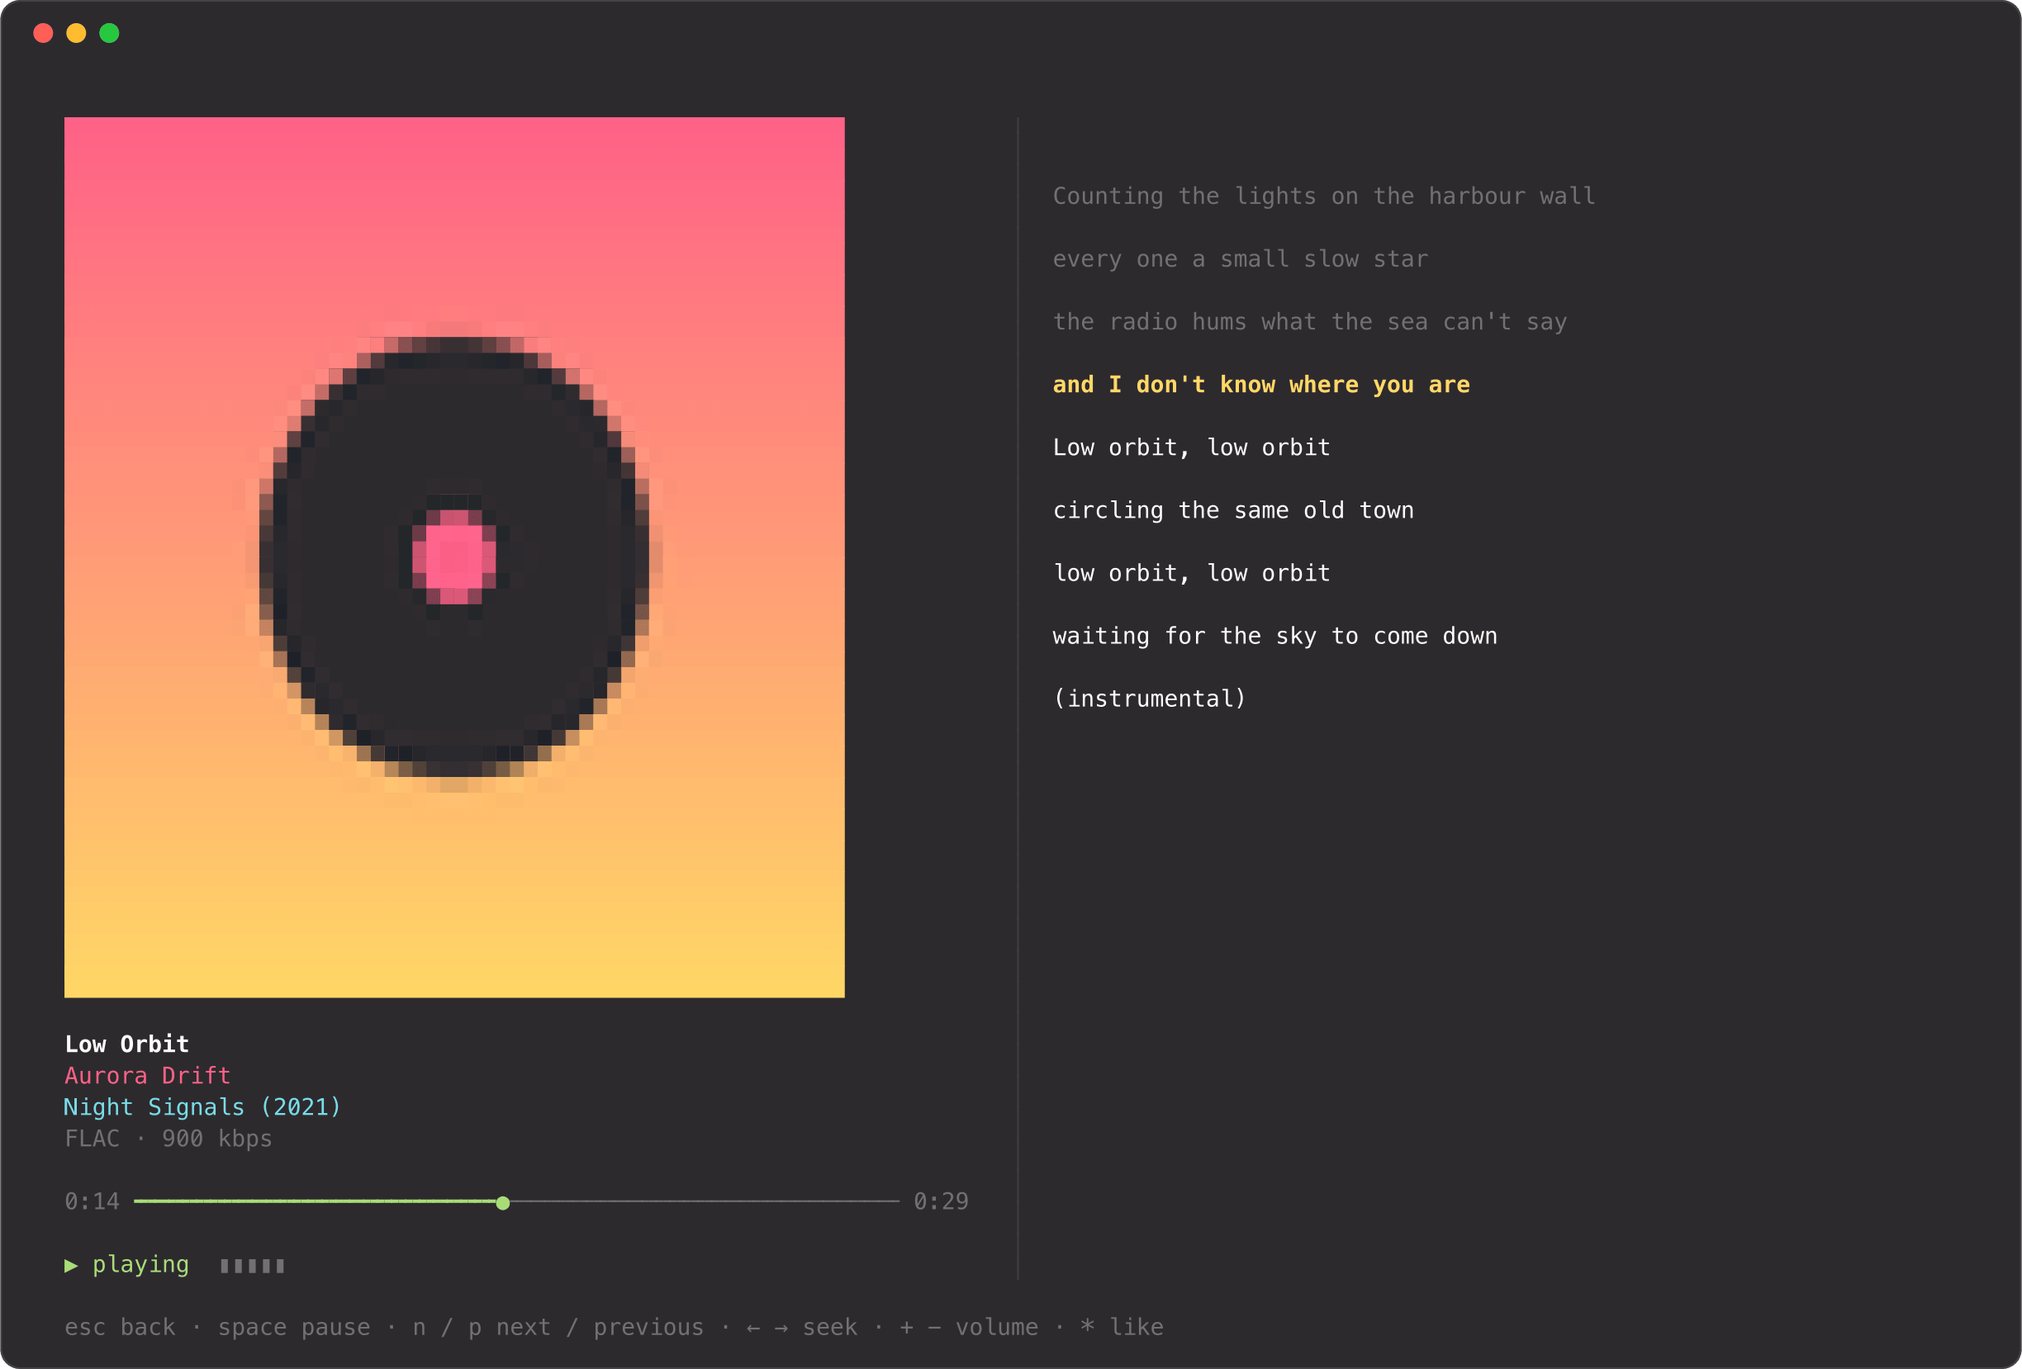
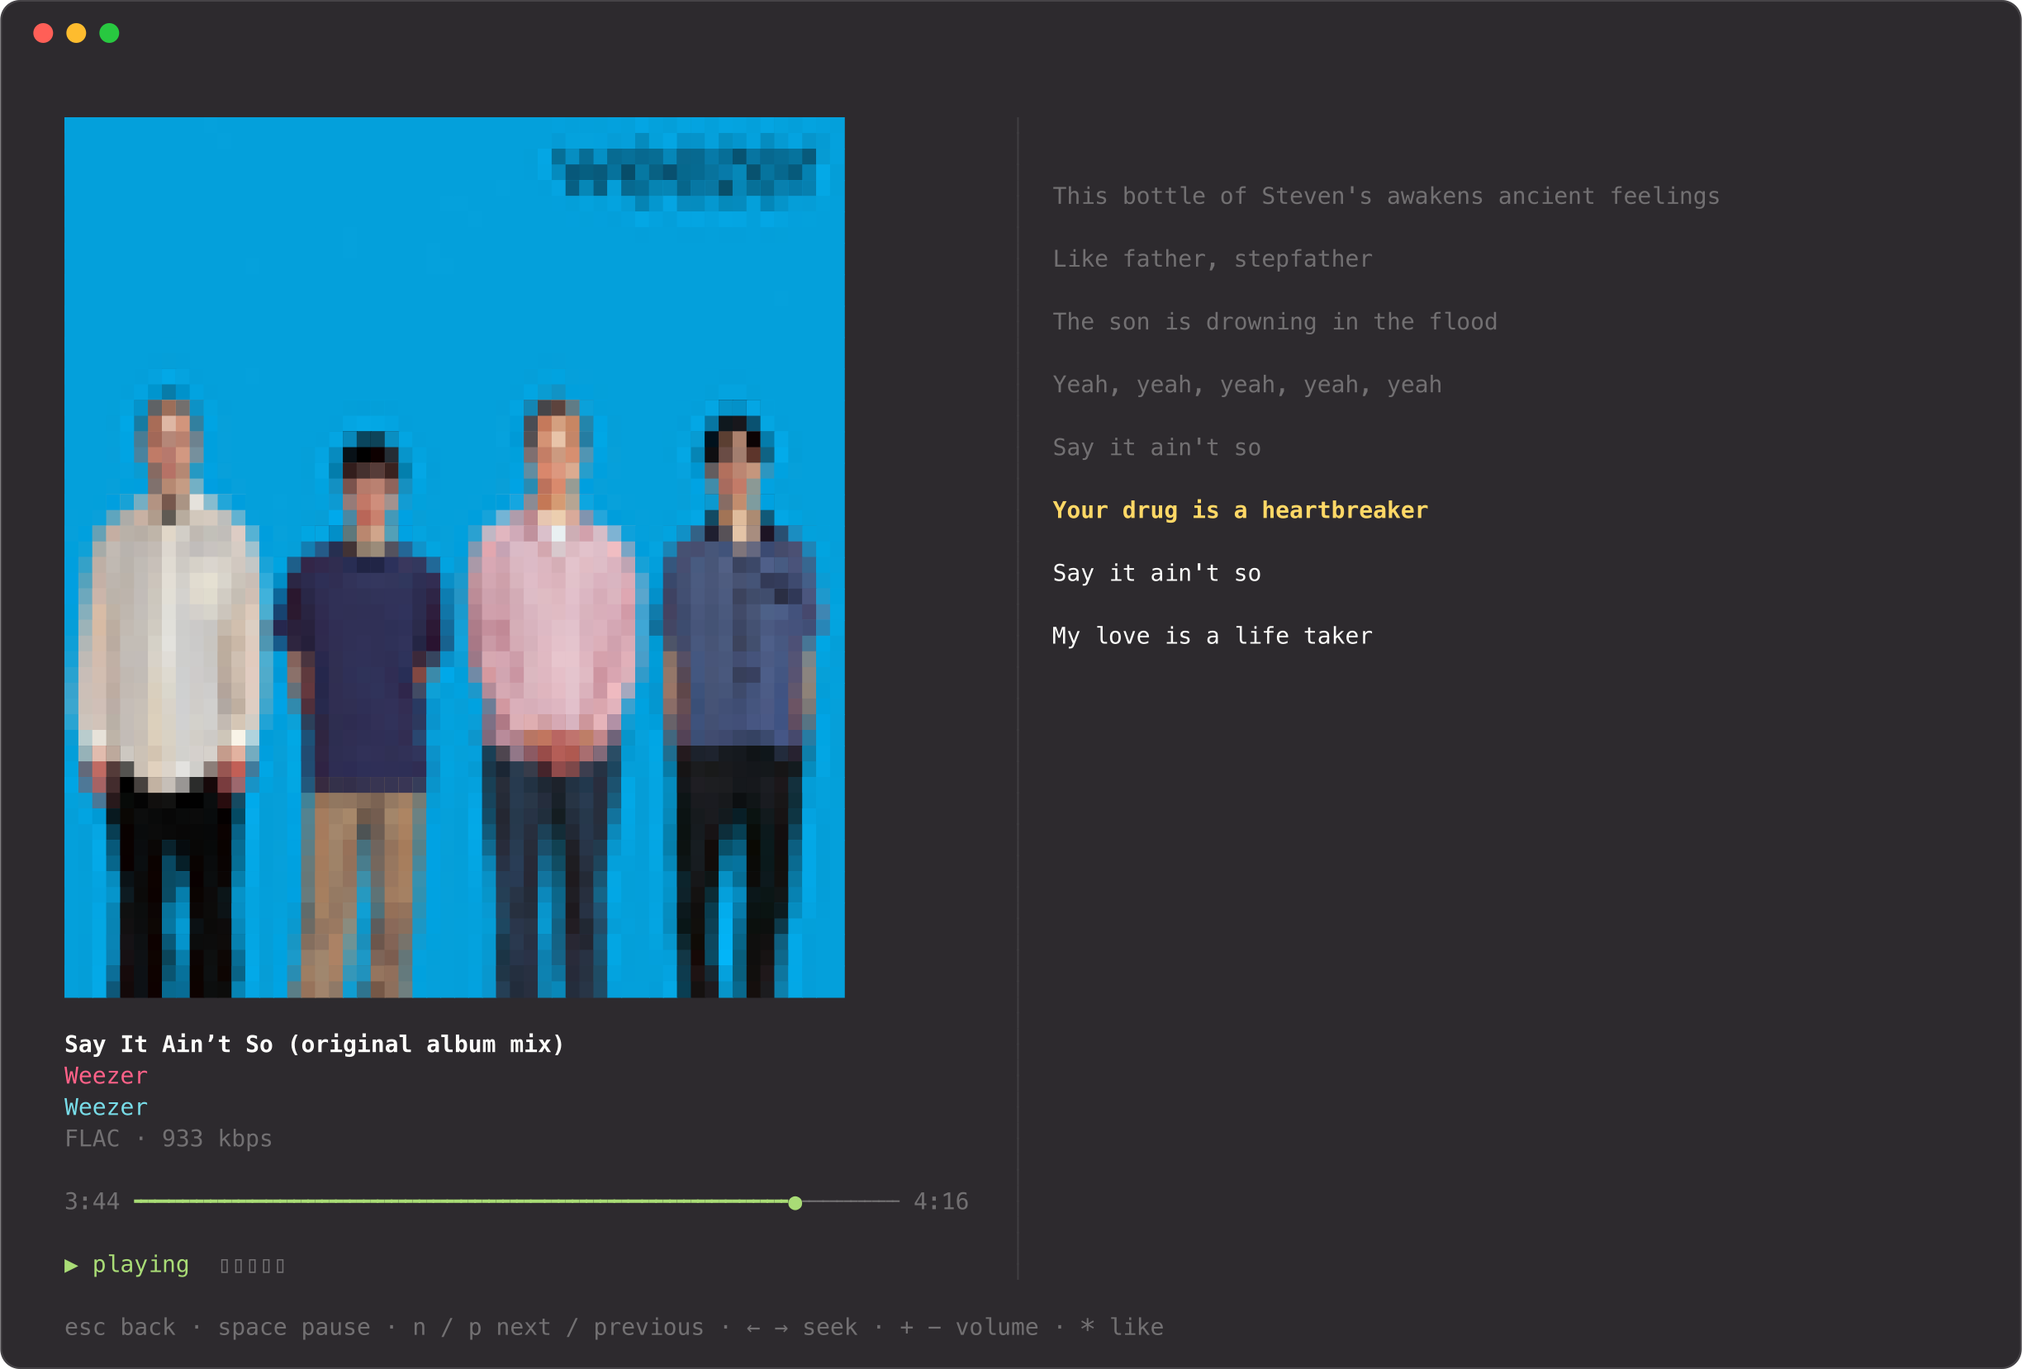
README for real use, real-library screenshots, CI on Linux and macOS
- README: work-in-progress and AI-assisted notes up front, why it exists, features
  (remote control, Up Next, lyrics, themes), screenshots of a real library playing on an
  iPhone and through mpv, install, themes, configuration, roadmap; the demo moves to
  Development
- screenshots: every one a real library, a different album in each
- the picker's theme names, lists, inputs and the footer follow the theme
- CI runs the tests and lint on Ubuntu and macOS (mpv with no audio device)

diff --git a/tests/test_player.py b/tests/test_player.py
@@ -127,7 +127,9 @@ async def test_mpv_plays_gapless_into_the_next_track(tmp_path) -> None:
         player.advanced()
         advanced.set()
 
-    mpv = Mpv(tmp_path / "mpv.sock", lambda msg: local.handle_event(msg))
+    mpv = Mpv(
+        tmp_path / "mpv.sock", lambda msg: local.handle_event(msg), ("--ao=null",)
+    )  # no sound card needed
     local = LocalOutput(player.library, mpv, player.changed, on_advance, player.finished)
     await player.use(local)
     await mpv.set("volume", 0)  # silent test
@@ -153,7 +155,9 @@ async def _local(tmp_path, library) -> tuple[Player, LocalOutput, asyncio.Queue]
         player.advanced()
         events.put_nowait(player.queue.current)
 
-    mpv = Mpv(tmp_path / "mpv.sock", lambda msg: local.handle_event(msg))
+    mpv = Mpv(
+        tmp_path / "mpv.sock", lambda msg: local.handle_event(msg), ("--ao=null",)
+    )  # no sound card needed
     local = LocalOutput(player.library, mpv, player.changed, on_advance, player.finished)
     await player.use(local)
     await mpv.set("volume", 0)

diff --git a/src/tamp/app.py b/src/tamp/app.py
@@ -91,7 +91,7 @@ class TampApp(App):
         rows = [
             Text.assemble(
                 ("● " if name == self.cfg.theme else "○ ", fmt.GREEN),
-                (name, fmt.FG),
+                (name, ""),  # the list's own colour, so it stays readable while previewing
                 (f"  {about.get(name, 'yours' if name in self.user_themes else '')}", fmt.DIM),
             )
             for name in names

diff --git a/README.md b/README.md
@@ -1,74 +1,98 @@
 # tamp
 
-**A Plexamp-style music player for the terminal.** Browse and search your Plex library, see synced lyrics, edit the queue and playlists. Play right in the terminal, or use tamp as the remote and lyrics screen for Plexamp running on your phone, your Mac or a headless box.
+**A Plexamp-style music player and remote for the terminal.** Browse your Plex library, follow synced lyrics, edit the queue, and play right in the terminal, or drive Plexamp on your phone, desktop or headless box from it.
+
+> [!NOTE]
+> **Work in progress: a proof of concept.** It's what I use every day, but it's young. Expect rough edges, and please open an issue when something breaks.
 
 > [!WARNING]
-> **This is vibe-coded.** It was written largely by an AI assistant (Claude) as a proof of concept, with a human steering, testing and reviewing it. It works for its author, but it hasn't had the scrutiny a hand-written project gets. Expect rough edges, read the code before trusting it with anything important, and file issues freely. tamp is not affiliated with or endorsed by Plex.
+> **AI-assisted.** Most of the code was written by an AI assistant (Claude), with me steering, testing on my own setup and reviewing every change. It has an automated test suite and has been through security-minded reviews (see [How it works](#how-it-works)), but it hasn't had the scrutiny a hand-written project gets. The code is small and readable; please read it before trusting it. tamp is not affiliated with or endorsed by Plex.
 
-![tamp playing an album, with synced lyrics beside the album art](docs/main.png)
+![tamp controlling Plexamp on an iPhone: Tame Impala's Currents, synced lyrics, colours taken from the album art](docs/hero.png)
+
+## Why
+
+I spend my working day in a terminal and like to stay in flow there. I usually listen with AirPods connected to my iPhone, with Plexamp doing the playing. tamp lets me run that phone from the terminal I'm already in. I get a good-looking controller with synced lyrics, the real queue and all the usual comforts of a music player, without picking up the phone. When I'm at my desk without the phone, it plays right in the terminal instead.
 
 ## Features
 
-**Library**
-- A home page built from your server's hubs (recently played, recently added, stations, playlists), like Plexamp's.
-- Artists, albums, playlists, stations and liked tracks.
-- Artist pages with popular tracks, albums, singles & EPs and sonically similar artists.
-- Search as you type (`/`).
+**Remote control** (`o`, "Play on")
+- Control Plexamp on your phone, desktop or headless box: play, pause, skip, seek, volume, and queue anything.
+- It shows that device's *real* queue, the one you started on the phone, and keeps the lyrics in time.
+- When a player can't be reached (your phone left the Wi-Fi), tamp still follows along: now playing, art and lyrics.
 
-**Playing**
+**Plays here too**
 - Gapless playback through [mpv](https://mpv.io), with loudness leveling from Plex's own sonic analysis.
-- Synced lyrics beside the music, full size (`L`), or in a full-screen player with big art (`F`). Click a line to jump to that part of the song.
-- Radio from anything (`r`): sonically similar tracks, artist radio, album radio, plus your server's stations.
 - Plays are reported to Plex, so history, play counts and "recently played" stay right everywhere.
 
-**Queue and playlists**
-- Play next, add to queue, shuffle, repeat, reorder, remove; the queue survives restarts.
-- Save the queue as a playlist, or add anything to a playlist.
-- Like tracks.
+**Lyrics**
+- Synced lyrics beside the music, full size (`L`), or in a full-screen player with big art (`F`).
+- The line being sung is highlighted. Click any line to jump there.
+
+**Library**
+- Home from your server's hubs: your mixes, recently played, recently added, stations and playlists.
+- Artists (popular tracks, albums, singles, similar artists), albums, playlists, stations and liked tracks.
+- Search as you type (`/`).
+- Radio from anything (`r`).
+
+**Queue, like Plexamp's**
+- *Play next*, *Add to Up Next* and *Play last*; the queue shows Played, Now playing, Up next and the rest.
+- Reorder by dragging, or with `J`/`K` (shift+↑↓). `N` and `a` move a track to the front or end of Up Next.
+- Shuffle, repeat, remove, and save the queue as a playlist. It survives restarts.
+
+**Themes** (`T`)
+- *auto*: colours taken from the playing album's art, and your terminal's own colours when nothing plays.
+- Built in: Monokai Pro, Catppuccin (Mocha, Latte), Dracula, Solarized (dark, light), Gruvbox, Nord, Tokyo Night, Rosé Pine, and *terminal*. It previews live as you move through the list.
+- [Make your own](#themes) in a few lines of TOML.
 
 **Comfortable**
-- Right-click (or `m`) on any row for everything you can do with it.
-- Mouse support: click to select, double-click to play, click the progress bar to seek.
-- A searchable help screen (`?`), track info with format and loudness (`i`), and a sleep timer (`z`).
-- Vim keys throughout, and a sign-in flow that never asks you to paste a token.
+- Right-click (or `m`) any row for everything you can do with it.
+- Mouse throughout: click, double-click to play, drag the progress bar to seek, drag rows in the queue.
+- Vim keys, a searchable help screen (`?`), track info (`i`), a sleep timer (`z`) and liking (`f`).
+- Sign in with a link (`o` opens it, `c` copies it), a QR code, or a code at plex.tv/link. Plex Home users with PINs work.
+- `tamp status` for your tmux bar.
 
-**Remote control** (`o`, "Play on")
-- Control Plexamp on another device, or just follow along with what it's playing.
-- See [Remote control](#remote-control) for what works where.
+## Screenshots
 
-**Shell**
-- `tamp status` for your tmux bar, and `tamp toggle`, `next` and `prev` for key bindings.
+Everything here is my real library, playing on my iPhone or through mpv on my Mac.
 
 <table>
   <tr>
-    <td width="50%"><img src="docs/menu.png" alt="The context menu on a track"><br>Right-click or <code>m</code>: every action for that row</td>
-    <td width="50%"><img src="docs/player.png" alt="The full-screen player with big album art and synced lyrics"><br><code>F</code>: full-screen player, big art and synced lyrics</td>
+    <td width="50%"><img src="docs/remote-queue.png" alt="The queue of Plexamp on an iPhone, with the menu for a track: move to play next, move up or down, remove"><br>The phone's real queue, and every action for a row (right-click or <code>m</code>). Colours from <i>Upside Down</i>'s art.</td>
+    <td width="50%"><img src="docs/player.png" alt="The full-screen player: Weezer's blue album, synced lyrics with the sung line highlighted"><br><code>F</code>: full-screen player, following my iPhone</td>
   </tr>
   <tr>
-    <td><img src="docs/devices.png" alt="The Play on picker listing this computer, an iPhone, a MacBook and a headless Plexamp"><br><code>o</code>: play here, or control Plexamp elsewhere</td>
-    <td><img src="docs/artist.png" alt="An artist page with popular tracks, albums, singles and similar artists"><br>Artist pages: popular, albums, singles & EPs, similar</td>
+    <td><img src="docs/play-on.png" alt="The Play on picker listing this computer, an iPhone, a SHIELD TV and two Plexamps, over search results"><br><code>o</code>: play here or on any of your players; search as you type behind it</td>
+    <td><img src="docs/local.png" alt="Arctic Monkeys' Favourite Worst Nightmare playing on this computer with synced lyrics"><br>Playing here through mpv</td>
   </tr>
   <tr>
-    <td><img src="docs/home.png" alt="The home page: recently played, recently added, stations, playlists"><br>Home, from your library's hubs</td>
-    <td><img src="docs/help.png" alt="The help screen with a filter"><br><code>?</code>: every key, searchable</td>
+    <td><img src="docs/up-next.png" alt="The queue with Paramore playing and SZA and Kid Cudi in Up Next"><br>Up Next, like Plexamp's</td>
+    <td><img src="docs/themes.png" alt="The theme picker previewing Catppuccin Latte over SZA's artist page"><br><code>T</code>: themes, previewed live</td>
+  </tr>
+  <tr>
+    <td><img src="docs/artist.png" alt="SZA's artist page: popular tracks and albums, coloured from SOS's art"><br>Artist pages</td>
+    <td><img src="docs/home.png" alt="The home page: mixes for you, recently played and recently added"><br>Home, from your server's hubs</td>
+  </tr>
+  <tr>
+    <td><img src="docs/signin.png" alt="The sign-in screen with a link, a QR code and a plex.tv/link code"><br>Sign in with a link, a QR code or a code</td>
+    <td><img src="docs/help.png" alt="The searchable help screen"><br><code>?</code>: every key and mouse action, searchable</td>
   </tr>
 </table>
 
-Screenshots use `tamp --demo`, an invented offline library.
-
 ## Install
 
-You need Python 3.11+, [uv](https://docs.astral.sh/uv/) and mpv:
+tamp runs on macOS and Linux. You need Python 3.11+, [uv](https://docs.astral.sh/uv/) and mpv:
 - macOS: `brew install mpv`
-- Debian / Ubuntu: `apt install mpv`
-- Fedora: `dnf install mpv`
-- Arch: `pacman -S mpv`
+- Debian / Ubuntu: `sudo apt install mpv`
+- Fedora: `sudo dnf install mpv`
+- Arch: `sudo pacman -S mpv`
 
 ```sh
 uv tool install git+https://github.com/samayc16/tamp
-tamp            # sign in, then play
-tamp --demo     # no Plex needed
+tamp
 ```
+
+Update with `uv tool upgrade tamp`.
 
 **Signing in:** press `o` to open the Plex sign-in page or `c` to copy the link, scan the QR code with your phone, or enter the four-letter code at plex.tv/link. Then pick a Plex Home user (with their PIN if they have one), a server and a music library. `tamp logout` forgets it all.
 
@@ -78,15 +102,33 @@ Press `o` to choose where music plays. tamp finds players three ways: Plexamp on
 
 | player | control from tamp | needs |
 |---|---|---|
+| **Plexamp on an iPhone** | full while Plexamp is alive (it is while it's playing) | same Wi-Fi, and Plexamp allowed *Local Network* access in iOS Settings |
+| **Plexamp on Android** | full while the app is running | same network |
 | **Plexamp on a Mac / PC** | full | same network, and *Remote Control* turned on in Plexamp's settings |
 | **Plexamp headless / Caldera** | full | same network |
-| **Plexamp on Android** | full while the app is running | same network |
-| **Plexamp on an iPhone** | full while Plexamp is alive (it is while it's playing) | same Wi-Fi, and Plexamp allowed *Local Network* access in iOS Settings |
 | **any of these, away from home** | follow: now playing, art and synced lyrics | nothing |
 
-**Follow mode:** when a player can't be reached, tamp still shows what it's playing. Every Plex player reports its playback to your server, so tamp reads that session and keeps synced lyrics in time. This covers your phone on cellular, or Plexamp asleep in the background.
+**Follow mode:** when a player can't be reached, tamp still shows what it's playing. Every Plex player reports its playback to your server, so tamp reads that and keeps the lyrics in time. This covers your phone on cellular, or Plexamp asleep in the background.
 
 **Away from home:** Plexamp's own remote control works through a private Plex cloud relay that other apps can't use, so tamp only follows there.
+
+## Themes
+
+Press `T` to pick one; it's remembered. To make your own, add `~/.config/tamp/themes/<name>.toml`. Start from a built-in, then change any of its colours:
+
+```toml
+extends = "nord"
+accent = "#ff79c6"     # artists, titles, borders
+highlight = "#f1fa8c"  # the sung lyric line, key hints
+```
+
+The colours you can set: `bg`, `panel`, `overlay`, `line`, `select`, `hover`, `fg`, `dim`, `accent`, `playing`, `highlight`, `album`, `extra` and `warm`. Each takes `#rrggbb` or a terminal colour name like `bright_blue`.
+
+## Configuration
+
+`~/.config/tamp/config.json` holds your sign-in and choices, and only you can read it. Besides the theme, two settings are worth knowing:
+- `"mpv_args": ["--audio-device=coreaudio/AppleUSBAudioEngine:…"]`: extra mpv options for local playback, such as which audio device to use (`mpv --audio-device=help` lists them).
+- `"loudness_leveling": false`: turn leveling off (or press `v`).
 
 ## Use it from tmux
 
@@ -96,32 +138,48 @@ bind-key M-p run-shell 'tamp toggle'
 bind-key M-n run-shell 'tamp next'
 ```
 
+`tamp toggle`, `next`, `prev` and `stop` work from anywhere, which makes them handy for key bindings.
+
+## Roadmap
+
+Ideas, roughly in order. Issues and PRs are very welcome.
+- **Real album art** where the terminal can show images (the Kitty graphics protocol, iTerm2, Sixel). The pixel-art look stays as an option, because it's charming.
+- **A Rust rewrite** (ratatui and mpv), now that the features have settled. This Python version is the proof of concept.
+- **More of Plexamp:** crossfade and sweet fades, DJ modes, a guest/party queue, an equalizer.
+- **Packaging:** Homebrew and the AUR.
+- **Control from anywhere:** remote control away from home, if a sanctioned way appears.
+
 ## How it works
 
 | module | job |
 |---|---|
 | `plex.py` | plex.tv sign-in (two PINs: browser link and plex.tv/link code), Home users, servers, player discovery |
-| `library.py` | browsing, hubs, search, radio, lyrics, art, ratings and play reports, via [python-plexapi](https://github.com/pushingkarmaorg/python-plexapi); `demo.py` is an offline stand-in |
-| `mpv.py`, `output.py` | local playback through one mpv over JSON IPC, whose playlist holds the current track and the next (gapless); remote players through `companion.py`, with the server's sessions as fallback |
+| `library.py` | browsing, hubs, search, radio, lyrics, art, ratings and play reports, via [python-plexapi](https://github.com/pushingkarmaorg/python-plexapi) |
+| `mpv.py`, `output.py` | local playback through one mpv over JSON IPC, whose playlist holds the current and next track (gapless); remote players through `companion.py`, with your server as the fallback |
 | `player.py`, `queue.py` | the queue as an immutable value, transport, play reporting, the status file for tmux |
-| `ui/` | the [Textual](https://textual.textualize.io) app: browser, context menus, now playing, full-screen player, help |
+| `ui/` | the [Textual](https://textual.textualize.io) app: browser, menus, now playing, full-screen player, themes, help |
 
 **Your Plex token:**
 - It's stored in `~/.config/tamp/config.json`, readable only by you.
 - It's sent as a header, never in a URL or on a command line.
 - It only goes to players at addresses plex.tv lists for your own devices, or to a player that first identified itself without it.
+- Reading another player's queue never takes it over from that player.
 
 **Testing:**
-- Unit tests cover the queue, lyrics, playback (with a real mpv, including the gapless hand-offs) and the remote-control protocol (against a stub player).
-- Real-world testing against many Plex setups is still thin, so reports are welcome.
+- Unit and UI tests cover the queue and Up Next, lyrics, themes, the search and drag behaviour, playback (with a real mpv, including the gapless hand-offs) and the remote-control protocol (against a stub player).
+- They run on Ubuntu and macOS for every push.
+- Day to day it's used on macOS with a Plex server and Plexamp on an iPhone. Linux should work the same (it's Python and mpv), and reports are welcome.
 
-This Python version is the proof of concept. The plan is a Rust rewrite (ratatui + mpv) once the features have settled.
+## Contributing
+
+Issues, ideas and pull requests are all welcome. Please be kind: this started as a tool for my own setup, and I'm sharing it in case it helps yours.
 
 ## Development
 
 ```sh
 uv venv && uv pip install -e '.[test]'
 .venv/bin/pytest
+.venv/bin/tamp --demo   # an invented offline library, for working on the UI without a server
 ```
 
 MIT licensed.
